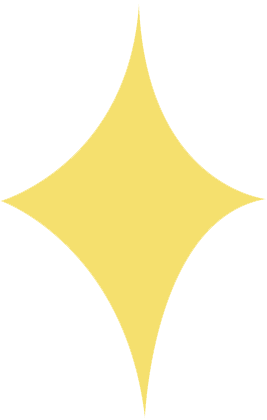
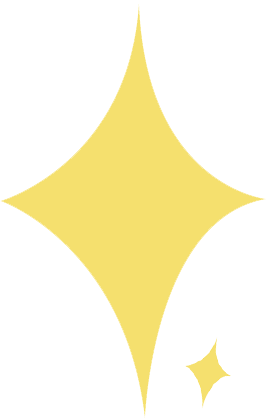
changes

Changed region(s): [[0.6891, 0.8048, 0.8689, 0.9595]]

diff --git a/intro/next-1/next-2/pick/main.css b/intro/next-1/next-2/pick/main.css
@@ -18,10 +18,7 @@ img {
   /* z-index: -10; */
   /* animation: test 10s infinite; */
 }
-.intro{
-  width: 150px;
-  height: 150px;
-}
+
 .h {
   font-size: 30px;
   color: #999999;
@@ -34,7 +31,12 @@ img {
   margin-left: 50px;
   margin-top: 50px;
 }
-
+.intro{
+  width: 150px;
+  height: 150px;
+  margin-left: 50px;
+  margin-top: 2px;
+}
 .buttom {
   width: 250px;
   margin-right: 100px;
@@ -47,7 +49,7 @@ a {
 .flex-box1 {
   display: flex;
   flex-direction: row;
-  width: 450px;
+  width: 600px;
   height: 15px;
   margin-left: auto;
   margin-right: auto;
@@ -78,7 +80,7 @@ a {
   padding: 50px 50px 50px 50px;
 }
 
-*/ .tooltip {
+.tooltip {
   position: relative;
   display: inline-block;
 }
@@ -87,13 +89,13 @@ a {
   visibility: hidden;
   width: 250px;
   font-size: 25px;
-  background-color: rgb(67, 91, 252, 0.5);
+  background-color: rgb(67, 91, 252, 0.85);
   color: #baa9a9;
   text-align: center;
   border-radius: 6px;
   padding: 10px;
   /* Position the tooltip */
-  position: inherit;
+  position: absolute;
   z-index: 1;
 }
 
@@ -106,7 +108,7 @@ a {
   width: 350px;
   height: 120px;
   background: #85bcfc;
-  box-shadow: 10px 10px rgba(37, 41, 144, .87);
+  box-shadow: 10px 10px rgba(37, 41, 144, 0.87);
   border-radius: 100px;
   animation: wave 16s infinite linear;
 }

diff --git a/intro/next-1/next-2/main.css b/intro/next-1/next-2/main.css
@@ -15,14 +15,23 @@ body {
 }
 
 img {
-  margin-left: 50px;
-  margin-top: 50px;
+
 }
 
 .star{
   width: 100px;
   height: 100px;
+  margin-left: 50px;
+  margin-top: 1px;
 }
+
+.flower {
+  width: 150px;
+  height: 150px;
+  margin-left: 50px;
+  margin-top: 2px;
+}
+
 .leave {
   width: 150px;
   height: 150px;
@@ -32,6 +41,8 @@ img {
 .intro{
   width: 150px;
   height: 150px;
+  margin-left: 50px;
+  margin-top: 2px;
 }
 
 p {
@@ -42,7 +53,7 @@ p {
 
 .flex-box1 {
   display: flex;
-  width: 900px;
+  width: 1000px;
   height: 500px;
   margin-left: auto;
   margin-right: auto;
@@ -163,7 +174,7 @@ p {
 .tooltip .tooltiptext {
   visibility: hidden;
   width: 250px;
-  background-color: rgb(67,91,252, 0.5);
+  background-color: rgb(67,91,252, 0.85);
   color: #baa9a9;
   text-align: center;
   border-radius: 6px;

diff --git a/intro/next-1/main.css b/intro/next-1/main.css
@@ -15,15 +15,21 @@ body {
 }
 
 img {
-  margin-left: 50px;
-  margin-top: 50px;
+
 }
 
 .star {
   width: 100px;
   height: 100px;
   margin-left: 50px;
-  margin-top: 20px;
+  margin-top: 1px;
+}
+
+.flower {
+  width: 150px;
+  height: 150px;
+  margin-left: 50px;
+  margin-top: 2px;
 }
 
 .leave {
@@ -46,7 +52,7 @@ p{
   display: flex;
   width: 1700px;
   height: 500px;
-  margin-left: auto;
+  margin-left: 80px;
   margin-right: auto;
   margin-top: 8em;
   background-color: rgba(31, 109, 213, 0);
@@ -165,7 +171,7 @@ p{
 .tooltip .tooltiptext {
   visibility: hidden;
   width: 250px;
-  background-color: rgb(67,91,252, 0.5);
+  background-color: rgb(67,91,252, 0.85);
   color: #baa9a9;
   text-align: center;
   border-radius: 6px;

diff --git a/intro/next-1/next-2/pick/index.html b/intro/next-1/next-2/pick/index.html
@@ -14,18 +14,17 @@
   <div class="tooltip">
     <a href="../../../../index.html">
       <img src="star.png" class="star" alt="star">
-      <span class="tooltiptext">Go to HomePage.</span>
-    </a>
+      <span class="tooltiptext">Go to HomePage.</span></a>
   </div>
   <div class="tooltip">
-    <a href="../index.html"><img src="intro.png" class="intro" alt="intro"><span class="tooltiptext"> Go to NextPage.</span></a>
+    <a href="../../../index.html"><img src="intro.png" class="intro" alt="intro"><span class="tooltiptext"> Go Back To Intro.</span></a>
   </div>
 
 
   <h>
     <div class="flex-box1">
       <p>
-        - CHOOSE BELOW -</p>
+        - CHOOSE ONE BELOW -</p>
     </div>
     <br>
     <div class="flex-box2">

diff --git a/intro/main.css b/intro/main.css
@@ -48,7 +48,7 @@ p {
   height: 500px;
   margin-left: auto;
   margin-right: auto;
-  margin-top: 6em;
+  margin-top: 7em;
   background-color: rgba(31, 109, 213, 0);
   border-radius: 50px;
   position: center;
@@ -165,7 +165,7 @@ p {
 .tooltip .tooltiptext {
   visibility: hidden;
   width: 250px;
-  background-color: rgb(67, 91, 252, 0.5);
+  background-color: rgb(67, 91, 252, 0.85);
   color: #baa9a9;
   text-align: center;
   border-radius: 6px;

diff --git a/intro/next-1/next-2/index.html b/intro/next-1/next-2/index.html
@@ -27,8 +27,11 @@
 
   <div class="flex-box1">
     <h>
-      <p>- hope you will have fun here -
-      </p></div>
+      <p>- Hope You Will Have Fun Here -
+      </p>
+      <p>>click the smile face<
+      </p>
+    </div>
       <div class="flex-box3">
         <!-- <div class="tooltip">
       <a href="pick/index.html"><img src="intro.png" class="intro" alt="intro"><span class="tooltiptext"> Go to NextPage.</span></a> -->

diff --git a/intro/index.html b/intro/index.html
@@ -5,7 +5,7 @@
 </style>
 
 <head>
-  <title>Intro</title>
+  <title>Intro-1</title>
   <meta name="viewport" content="width=device-width, initial-scale=1.0">
   <link rel="stylesheet" href="main.css">
 </head>
@@ -24,6 +24,8 @@
   <div class="flex-box1">
     <h>
       <p>This is an area for comforting your tired soul.
+      </p>
+      <p>>click the flower<
       </p>
   </div>
   <div class="flex-box3">

diff --git a/main.css b/main.css
@@ -76,20 +76,24 @@ a {
     -webkit-filter: blur(5px);
   }
 
-  75% {
+  20% {
     -webkit-filter: blur(0px);
   }
 
-  80% {
-    -webkit-filter: blur(5px);
+  40% {
+    -webkit-filter: blur(10px);
   }
 
-  90% {
+  60% {
+    -webkit-filter: blur(2px);
+  }
+
+  80% {
     -webkit-filter: blur(10px);
   }
 
   100% {
-    -webkit-filter: blur(5px);
+    -webkit-filter: blur(0px);
   }
 }
 

diff --git a/intro/next-1/index.html b/intro/next-1/index.html
@@ -30,6 +30,8 @@
         <br><br>
         FLIP A CARD / CHALLENGE YOURSLF / CHECK RESOURCES
       </p>
+      <p>>click the leave<
+      </p>
     </div>
       <!-- <div class="flex-box3">
         <div class="tooltip">
